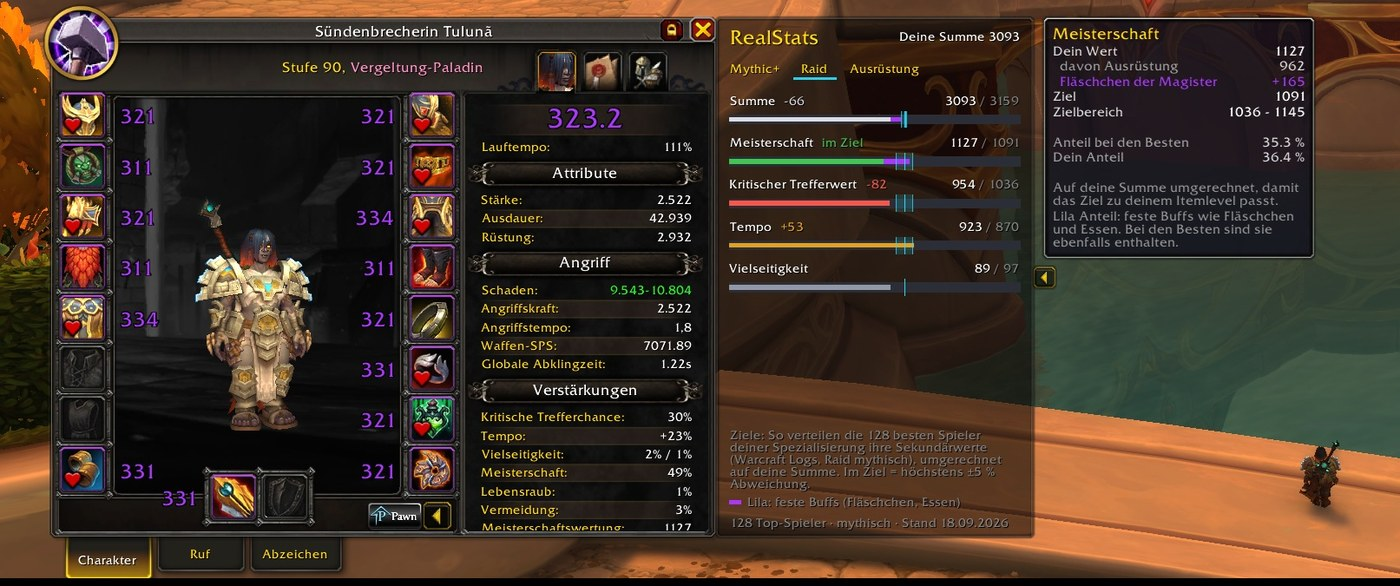
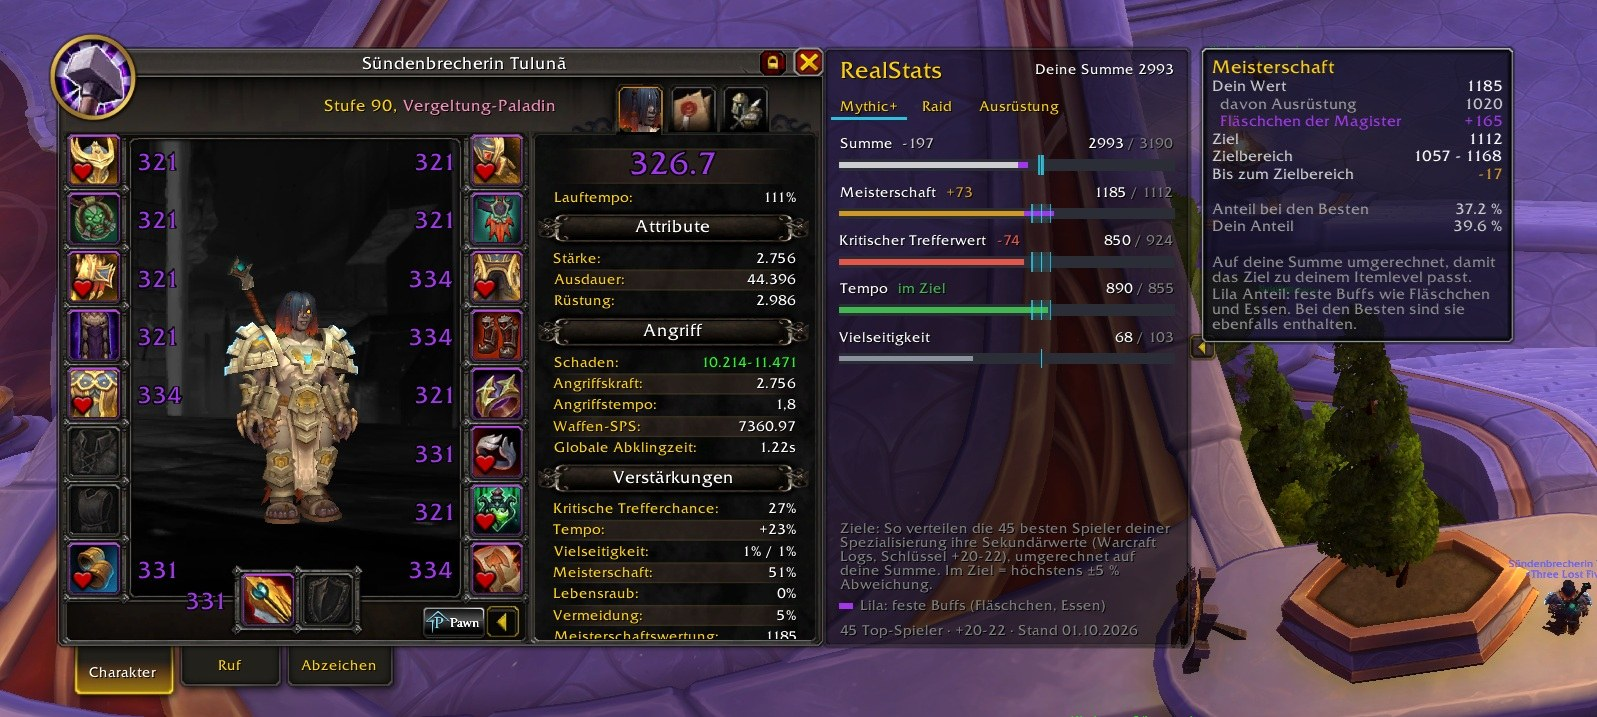
Screenshots auf den Stand von 1.0.2 gebracht
Neue Aufnahmen von Mythic+, Raid, Ausruestungs-Reiter mit den Schaltern und
Tooltip mit der Zeile "Bis zum Zielbereich"; die beiden alten Gear-Bilder
entfallen.

diff --git a/README.md b/README.md
@@ -44,7 +44,7 @@ Next to the set button: **Back to previous** re-equips what you wore before the
 last change (the items have to be in your bags), and **Save current** stores your
 current gear as the set "RealStats vorher" and as the way back.
 
-![RealStats: gear tab with the suggested changes](https://raw.githubusercontent.com/tulunagaming/RealStats/main/docs/screenshot-gear-changes.jpg)
+![RealStats: gear tab with the switches](https://raw.githubusercontent.com/tulunagaming/RealStats/main/docs/screenshot-gear-tab.jpg)
 
 ## Fixed buffs
 
@@ -52,7 +52,7 @@ Flasks and food are part of your stats, just like for the best players. Their
 share appears as a purple piece at the end of your bar, so you can see what
 comes from your gear.
 
-![RealStats: raid tab, tooltip with gear and flask share](https://raw.githubusercontent.com/tulunagaming/RealStats/main/docs/screenshot-raid-tooltip.jpg)
+![RealStats: tooltip with gear share, flask and the way back into the target range](https://raw.githubusercontent.com/tulunagaming/RealStats/main/docs/screenshot-raid-tooltip.jpg)
 
 ## Performance & stability
 
